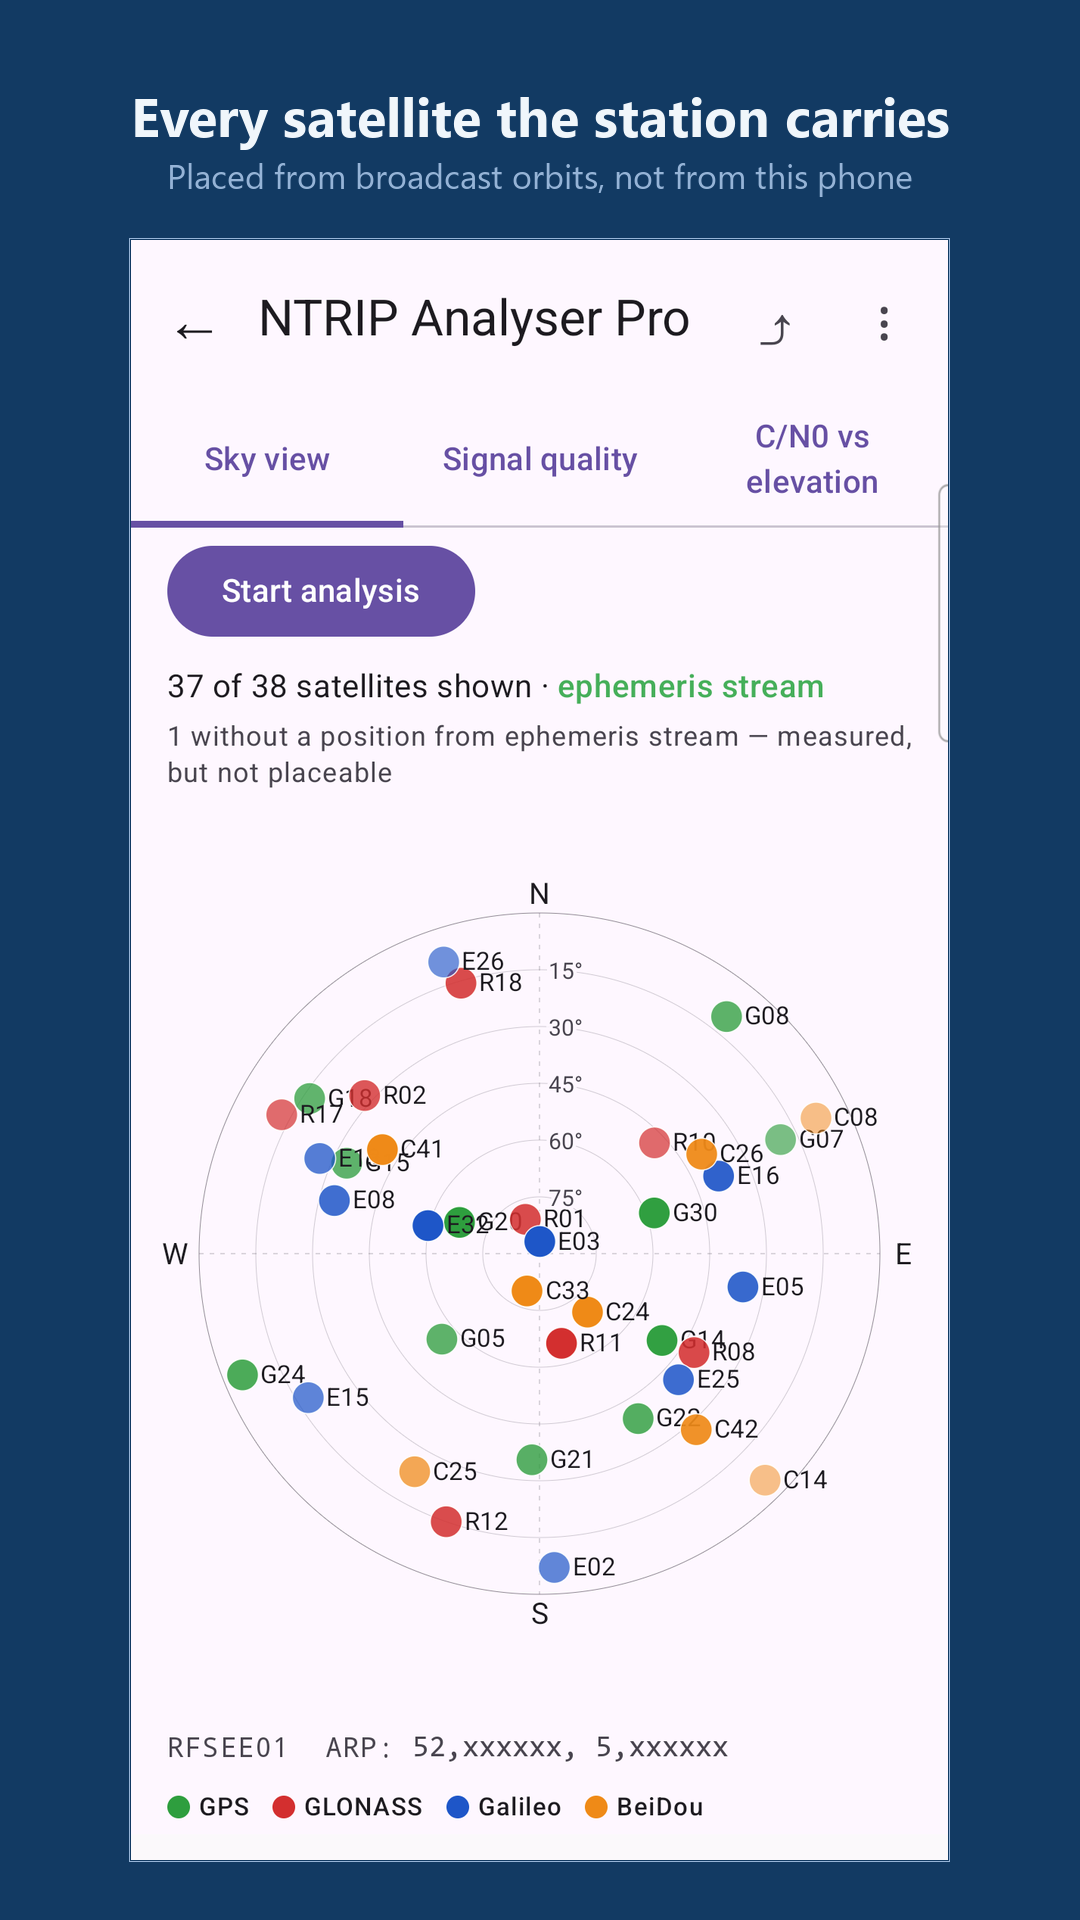
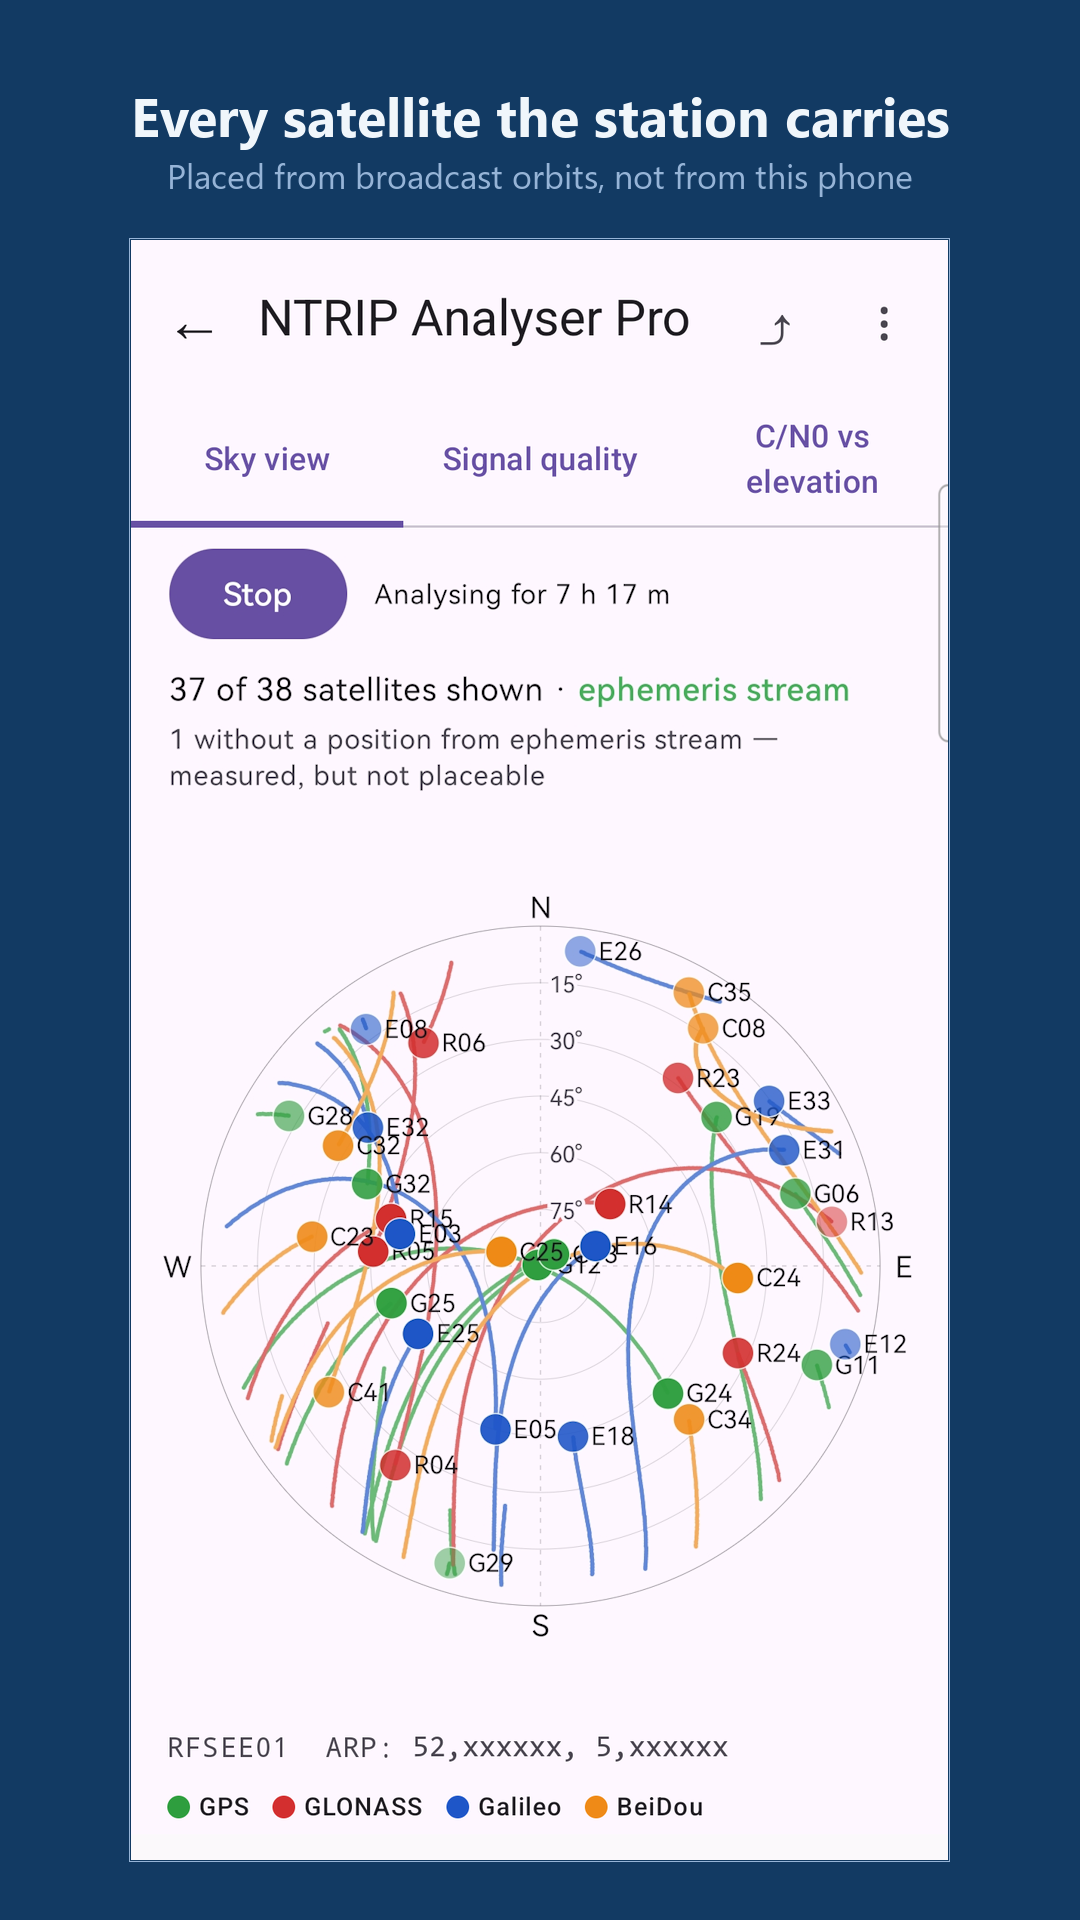
Record the overnight trial: the tracks pass
Seven hours seventeen minutes in, arcs span the whole session in each
constellation's own character, ending at their live markers, broken only
where a satellite set. The screen was off for most of it, which settles
the one open question: accumulation keeps its one-point-a-minute pace
through CPU suspension without a wake lock. Accepted from the capture.

Changed region(s): [[0.1528, 0.4375, 0.825, 0.8438], [0.1528, 0.2812, 0.825, 0.4062]]

diff --git a/design/work-items/satellite-tracks.md b/design/work-items/satellite-tracks.md
@@ -173,7 +173,15 @@ made visible:
 
 The trail dots are visibly finer than the markers they sit behind.
 
-**A trial is running.** Started 2026-08-23 15:0x on the Huawei
+**The trial passed** (2026-08-23, 21:55, 7 h 17 m in and still
+running): arcs span the whole session in every constellation's own
+character -- Galileo near-straight, GLONASS steep, BeiDou slow -- each
+ending at its live marker, broken only where a satellite set. The
+screen was off for most of those hours, which answers the suspension
+question below: accumulation kept its one-point-a-minute pace without
+a wake lock. Accepted by the author from this capture.
+
+**How it was run.** Started 2026-08-23 15:0x on the Huawei
 (SNE-LX1, Android 10, so no six-hour ceiling), pro 3.7.1 from `cd78871`,
 watch mode on HANESE with placement from the ephemeris stream. What to
 read from it: the elapsed line, the sample count on C/N0 against
@@ -181,7 +189,7 @@ elevation -- about 1.3 million if the service keeps 40/s through the
 night -- and whether the arcs run back the whole session. **Do not
 install anything on that handset while it runs.**
 
-**One thing is not proven here.** Those figures are with the app off
+**One thing was not proven before that trial.** Those figures are with the app off
 screen but the *screen on*. With the screen off the CPU may suspend
 between packets, and a foreground service holds no wake lock -- the
 service pumps every 200 ms, and nothing keeps it running against a
